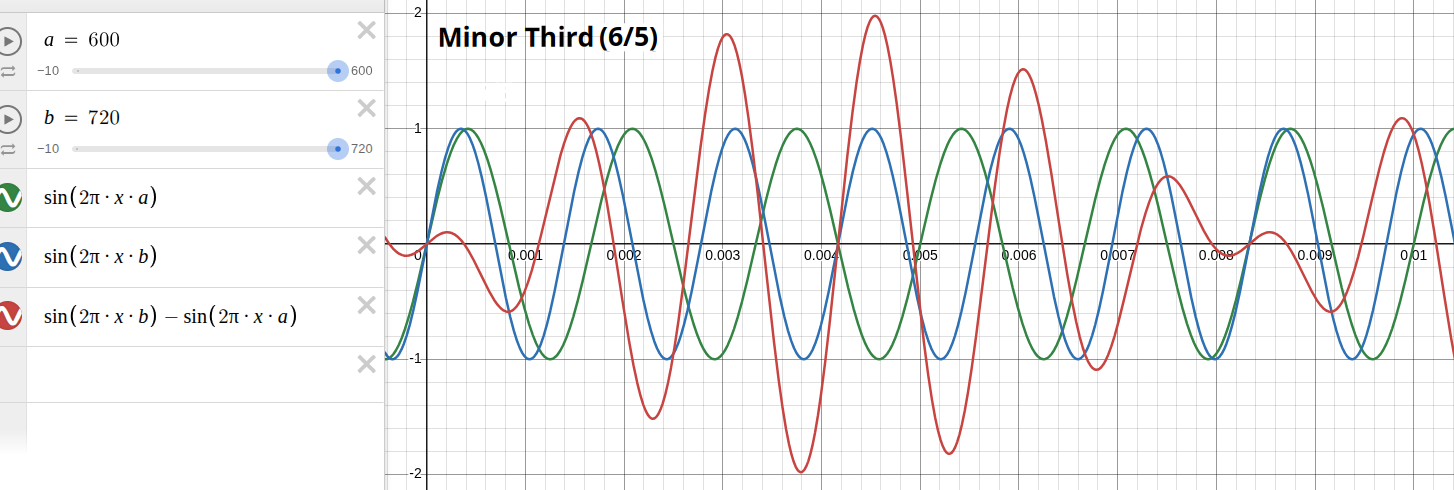
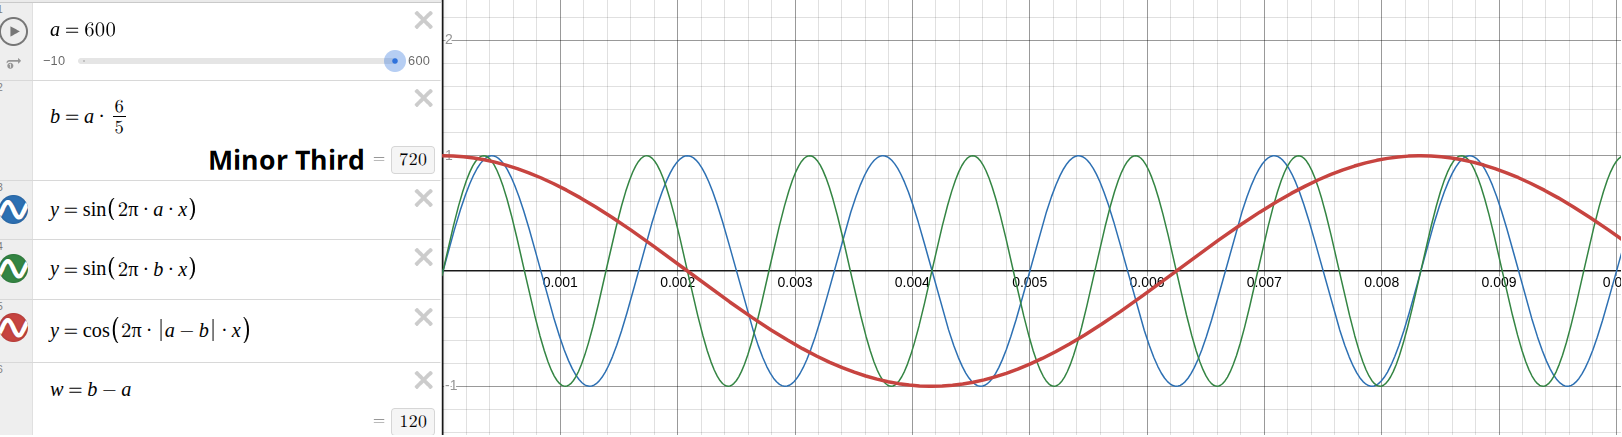
Updated diagrams and improved their HTML document.

Changed region(s): [[0.0, 0.0, 1.0, 1.0], [0.0, 0.714, 0.1547, 0.8032], [0.0309, 0.8627, 0.0928, 0.9222]]

diff --git a/src/main/resources/fri/music/diagrams.html b/src/main/resources/fri/music/diagrams.html
@@ -2,68 +2,85 @@
     <head>
         <meta charset="UTF-8"/>
         <meta name="viewport" content="width=device-width, initial-scale=1"/>
-        <title>Glossary</title>
+        <title>Diagrams</title>
         <link rel="stylesheet" href="WebBrowser.css">
-        <style>td, th { padding: 8; }</style>
     </head>
     
     <body>
         <h1 id="top" style="text-align: center;">Sine Wave Diagrams</h1>
         
         <p>
-            Sine-wave diagrams of the most harmonious intervals.
+            One Hertz means one wave in one second, 
+            so <b>100 Hertz</b> would be 100 waves in one second, or <b>one wave in 1/100 second</b>. 
+            A sine wave starts at zero, raises to top to fall down below zero, then raises up again to zero.
+            A cosine wave starts on top, falls down below zero, then crosses zero upwards to top again. 
+        </p>
+        <p>
+            All diagrams below show a <b>time-frame of 1/100 second</b>.
+            Frequencies of the two interval-tones are given in variables <b>a</b> and <b>b</b>,
+            whereby <b>b</b> was derived from <b>a</b> by multiplying it with the fraction of a pure interval. 
+            The deeper interval-tone (<b>a</b>) is green, the higher one (<b>b</b>) blue. 
+            Their resulting difference-tone is red. 
+        </p>
+        <p>
+            For instance, when you look at the octave, you see 6 green waves (<i>a = 600 Hertz</i>) 
+            and 12 blue waves (<i>b = 600 * 2/1 = 1200 Hertz</i>).
+            Their resulting red difference-tone has 6 waves in the 1/100 time-frame,
+            because the difference of <i>1200 - 600 = 600 Hertz</i>. <br/>
+            The major sixth goes with <i>1000 - 600 = 400 Hertz</i>, 
+            thus it has 4 waves in the 1/100 time-frame. 
+            The difference frequency (b - a) is calculated on bottom left of the diagram,
+            dividing it by 100 gives the number of expected waves. 
         </p>
         
         <ul>
-            <li><a href="#FIFTH">Fifth (3/2)</a></li>
-            <li><a href="#FOURTH">Fourth (4/3)</a></li>
-            <li><a href="#OCTAVE">Octave (2/1)</a></li>
-            <li><a href="#MAJOR_THIRD">Major Third (5/4)</a></li>
-            <li><a href="#MINOR_THIRD">Minor Third (6/5)</a></li>
-            <li><a href="#MINOR_SIXTH">Minor Sixth (8/5)</a></li>
-            <li><a href="#MAJOR_SIXTH">Major Sixth (5/3)</a></li>
+            <li><a href="#OCTAVE">Octave</a></li>
+            <li><a href="#MAJOR_SIXTH">Major Sixth</a></li>
+            <li><a href="#MINOR_SIXTH">Minor Sixth</a></li>
+            <li><a href="#FIFTH">Fifth</a></li>
+            <li><a href="#TRITONE">Tritone</a></li>
+            <li><a href="#FOURTH">Fourth</a></li>
+            <li><a href="#MAJOR_THIRD">Major Third</a></li>
+            <li><a href="#MINOR_THIRD">Minor Third</a></li>
         </ul>
         
-        <h2 id="FIFTH">Fifth</h2>
         <p>
-            Following diagram shows the sine-waves of two interval-tones 
-            in green (600 Hertz) and blue (900 Hertz) of duration 1/100 second, 
-            representing a fifth, and their resulting difference-tone in red 
-            (300 Hertz, thus there are three waves in 1/100 second, framed in yellow). 
+            <i>Remember:</i> the closer the interval-tones are to each other, 
+                the deeper their difference tone, the flatter its curve!
         </p>
-        <p>
-            One Hertz means one wave in one second, so 100 Hertz would be 100 waves in one second,
-            or one wave in 1/100 second. 
-            One wave consists of a curve above the horizontal zero-line and a curve below it. 
+            
+        <p id="OCTAVE">
+            <img src="wavediagrams/DifftoneWave_OCTAVE.png"></img>
         </p>
-        <p style="text-align: center;">
-            <img src="DifftoneWave_FIFTH.png"></img>
+        <hr/>
+        <p id="MAJOR_SIXTH">
+            <img src="wavediagrams/DifftoneWave_MAJOR_SIXTH.png"></img>
         </p>
-        
-        <h2 id="Others">Others</h2>
-        <p>
-            The diagrams below show the sine-wave interferences of other intervals
-            in same colors. The frequencies are given on top in variables <b>a</b> and <b>b</b>.
+        <hr/>
+        <p id="MINOR_SIXTH">
+            <img src="wavediagrams/DifftoneWave_MINOR_SIXTH.png"></img>
         </p>
-        
-        <p id="FOURTH" style="text-align: center; padding-left: 80;">
-            <img src="DifftoneWave_FOURTH.png"></img>
+        <hr/>
+        <p id="FIFTH">
+            <img src="wavediagrams/DifftoneWave_FIFTH.png"></img>
         </p>
-        <p id="OCTAVE" style="text-align: center; padding-left: 80;">
-            <img src="DifftoneWave_OCTAVE.png"></img>
+        <hr/>
+        <p id="TRITONE">
+            <img src="wavediagrams/DifftoneWave_TRITONE.png"></img>
         </p>
-        <p id="MAJOR_THIRD" style="text-align: center; padding-left: 80;">
-            <img src="DifftoneWave_MAJOR_THIRD.png"></img>
+        <hr/>
+        <p id="FOURTH">
+            <img src="wavediagrams/DifftoneWave_FOURTH.png"></img>
         </p>
-        <p id="MINOR_THIRD" style="text-align: center; padding-left: 80;">
-            <img src="DifftoneWave_MINOR_THIRD.png"></img>
+        <hr/>
+        <p id="MAJOR_THIRD">
+            <img src="wavediagrams/DifftoneWave_MAJOR_THIRD.png"></img>
         </p>
-        <p id="MINOR_SIXTH" style="text-align: center; padding-left: 80;">
-            <img src="DifftoneWave_MINOR_SIXTH.png"></img>
+        <hr/>
+        <p id="MINOR_THIRD">
+            <img src="wavediagrams/DifftoneWave_MINOR_THIRD.png"></img>
         </p>
-        <p id="MAJOR_SIXTH" style="text-align: center; padding-left: 80;">
-            <img src="DifftoneWave_MAJOR_SIXTH.png"></img>
-        </p>
-        
+        <hr/>
+                
     </body>
 </html>
